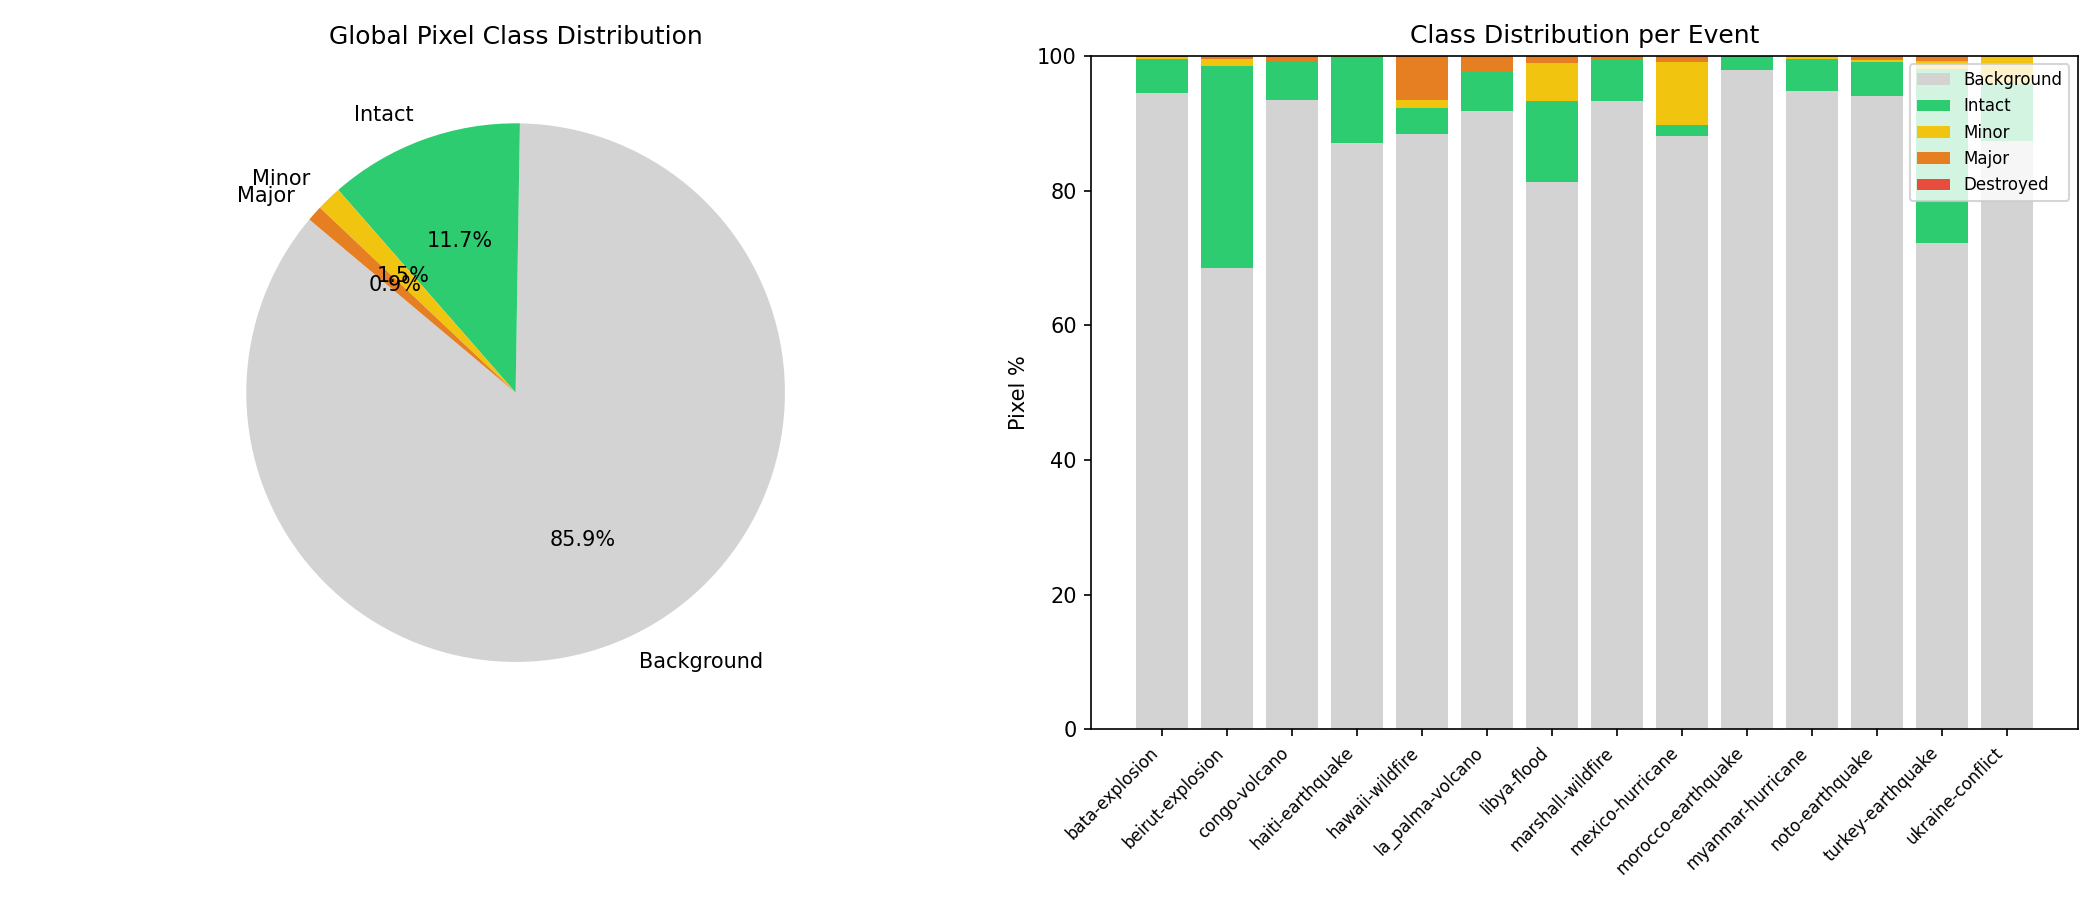
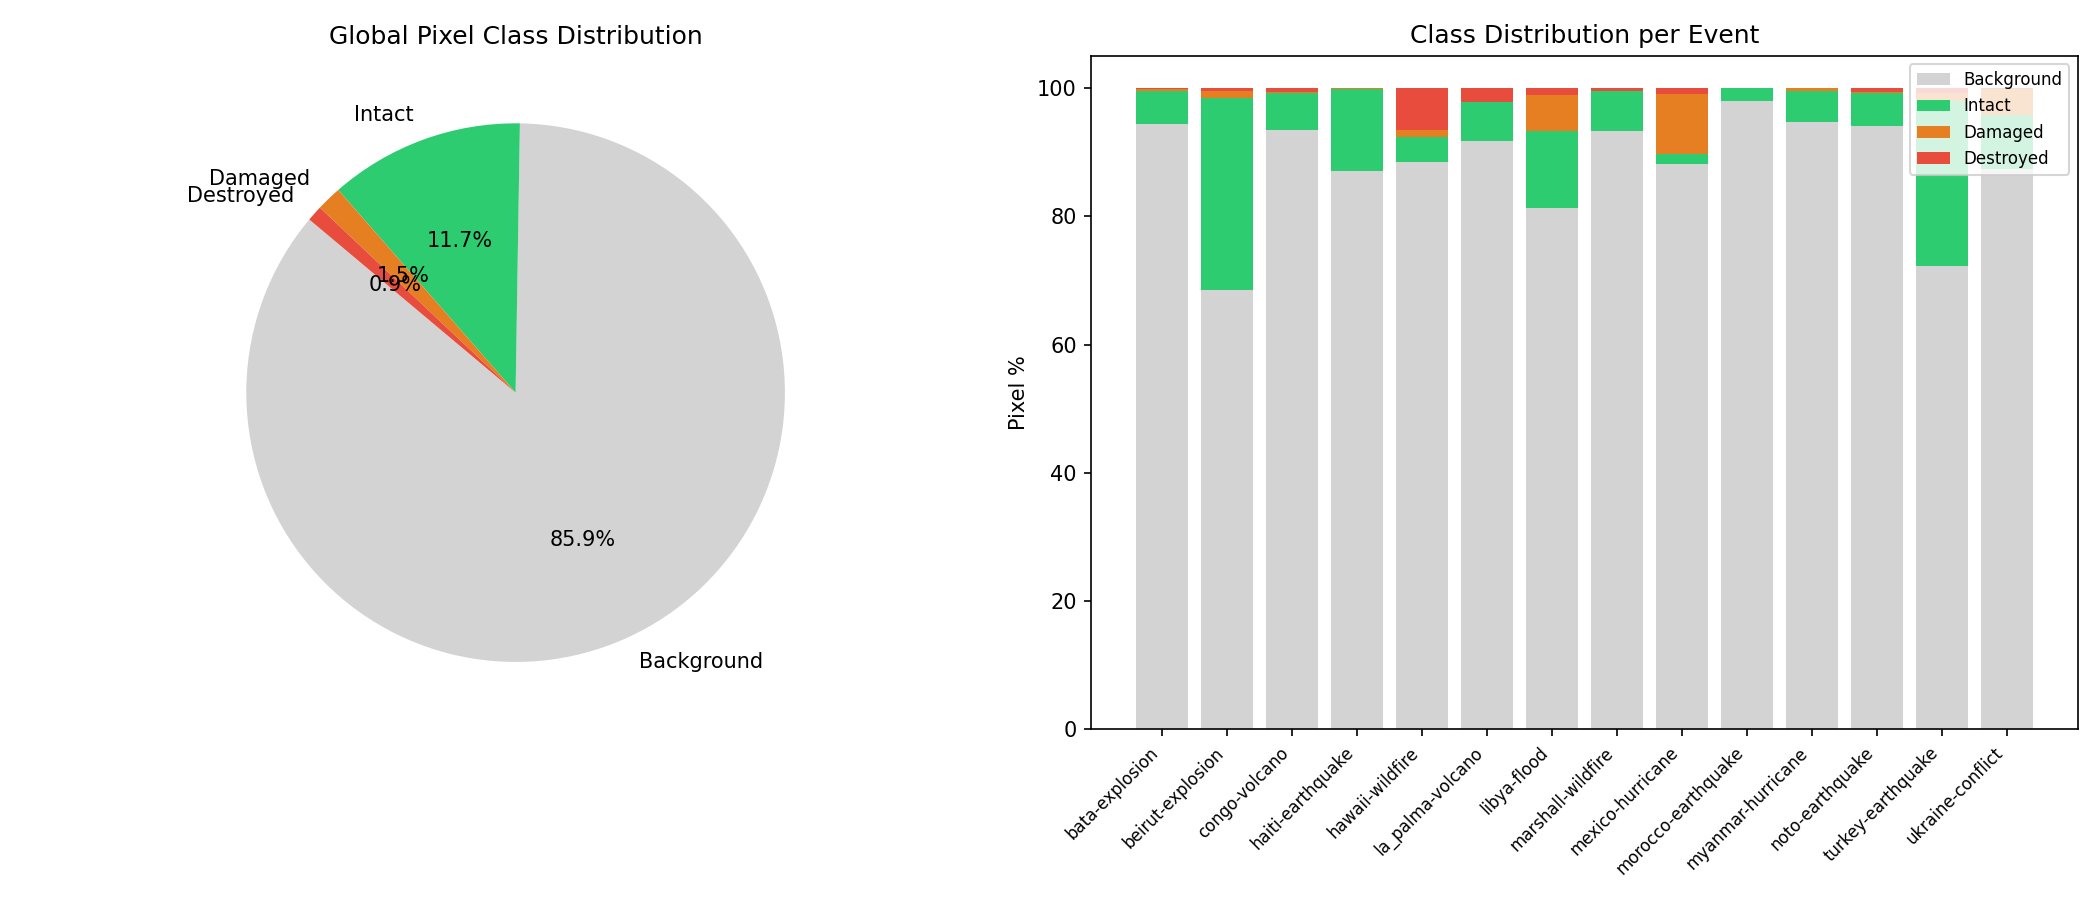
class number fix: eda, unet, encoder, loss

diff --git a/scripts/eda.py b/scripts/eda.py
@@ -24,8 +24,8 @@ TGT_DIR   = ROOT / cfg.data.target_dir
 OUT_DIR   = Path("reports/eda")
 OUT_DIR.mkdir(parents=True, exist_ok=True)
 
-LABEL_NAMES  = {0: "Background", 1: "Intact", 2: "Minor", 3: "Major", 4: "Destroyed"}
-LABEL_COLORS = {0: "#d3d3d3", 1: "#2ecc71", 2: "#f1c40f", 3: "#e67e22", 4: "#e74c3c"}
+LABEL_NAMES  = {0: "Background", 1: "Intact", 2: "Damaged", 3: "Destroyed"}
+LABEL_COLORS = {0: "#d3d3d3", 1: "#2ecc71", 2: "#e67e22", 3: "#e74c3c"}
 SAR_ONLY     = {"ukraine-conflict", "myanmar-hurricane", "mexico-hurricane"}
 
 # ── Helpers ───────────────────────────────────────────────────────────────────
@@ -127,7 +127,7 @@ def eda_label_distribution(all_stems):
 
     # ── Plot B: event stacked bar ────────────────────────────────────────────
     events  = sorted(event_pct.keys())
-    classes = [0, 1, 2, 3, 4]
+    classes = [0, 1, 2, 3]
     bottom  = np.zeros(len(events))
     for cls in classes:
         vals = [event_pct[e].get(cls, 0) for e in events]
@@ -294,7 +294,7 @@ def eda_sample_visualization(all_stems):
         axes[row, 2].axis("off")
 
     # Legend
-    patches = [mpatches.Patch(color=LABEL_COLORS[c], label=LABEL_NAMES[c]) for c in range(5)]
+    patches = [mpatches.Patch(color=LABEL_COLORS[c], label=LABEL_NAMES[c]) for c in range(4)]
     fig.legend(handles=patches, loc="lower center", ncol=5,
                bbox_to_anchor=(0.5, 0), fontsize=9)
     plt.suptitle("Sample Tiles: Pre-event Optical | Post-event SAR | Damage Label",

diff --git a/src/models/siamese_unet.py b/src/models/siamese_unet.py
@@ -8,12 +8,12 @@ from .decoder import DecoderBlock, DoubleConv
 """Siamese UNet
     - dual encoder branches with ResNet50 weights
     - featurs fused by concatanation at each scale
-    - UNet decoder outputs 5 class segmentation map
+    - UNet decoder outputs 4 class segmentation map
 """
 
 class SiameseUNet(nn.Module):
     
-    def __init__(self, num_classes:int = 5, pretrained: bool = True):
+    def __init__(self, num_classes:int = 4, pretrained: bool = True):
         super().__init__()
         self.encoder = ResNetEncoder(pretrained=pretrained)
         
@@ -68,17 +68,11 @@ class SiameseUNet(nn.Module):
         skip2 = torch.cat([feats_opt[1], feats_sar[1]], dim=1)
         skip1 = torch.cat([feats_opt[0], feats_sar[0]], dim=1)
         
-        # x = self.dec4(x, skip4) #512ch, H/16
-        # x = self.dec3(x, skip3) #256ch, H/8
-        # x = self.dec2(x, skip2) #128ch, H/4
-        # x = self.dec1(x, skip1) #64ch, H/2
-        # x = self.final_upsample(x) #64ch, H
+        x = self.dec4(x, skip4) #512ch, H/16
+        x = self.dec3(x, skip3) #256ch, H/8
+        x = self.dec2(x, skip2) #128ch, H/4
+        x = self.dec1(x, skip1) #64ch, H/2
+        x = self.final_upsample(x) #64ch, H
         
-        print("bottleneck:", x.shape)
-        x = self.dec4(x, skip4); print("dec4:", x.shape)
-        x = self.dec3(x, skip3); print("dec3:", x.shape)
-        x = self.dec2(x, skip2); print("dec2:", x.shape)
-        x = self.dec1(x, skip1); print("dec1:", x.shape)
-        x = self.final_upsample(x); print("final_upsample:", x.shape)
                 
         return self.head(x)

diff --git a/src/training/losses.py b/src/training/losses.py
@@ -42,7 +42,7 @@ class CombinedLoss(nn.Module):
     
     def __init__(
         self,
-        num_classes: int = 5,
+        num_classes: int = 4,
         ignore_index: int = 0,
         ce_weights: float = 0.5,
         dice_weights: float = 0.5,
@@ -54,7 +54,7 @@ class CombinedLoss(nn.Module):
         self.dice_w = dice_weights
         
         if class_weights is None:
-            class_weights = [0.0, 1.0, 8.0, 12.0, 50.0]
+            class_weights = [0.0, 1.0, 7.8, 13.0]
         
         weights = torch.tensor(class_weights, dtype=torch.float32).to(device)
         self.ce = nn.CrossEntropyLoss(weight=weights, ignore_index=ignore_index)

diff --git a/scripts/smoke_test1.py b/scripts/smoke_test1.py
@@ -1,7 +1,7 @@
 from src.models import SiameseUNet
 import torch
 
-model = SiameseUNet(num_classes=5, pretrained=False)
+model = SiameseUNet(num_classes=4, pretrained=False)
 optical       = torch.randn(2, 3, 512, 512)
 sar           = torch.randn(2, 1, 512, 512)
 optical_valid = torch.tensor([True, False])

diff --git a/src/training/metrics.py b/src/training/metrics.py
@@ -1,0 +1,10 @@
+from __future__ import annotations
+import torch
+import torch.nn.functional as F
+
+# class indices
+# 0: Background (ignored in aggregation)
+# 1: No damage
+# 2: Minor damage
+# 3: Major damage
+# 4: Destroyed
